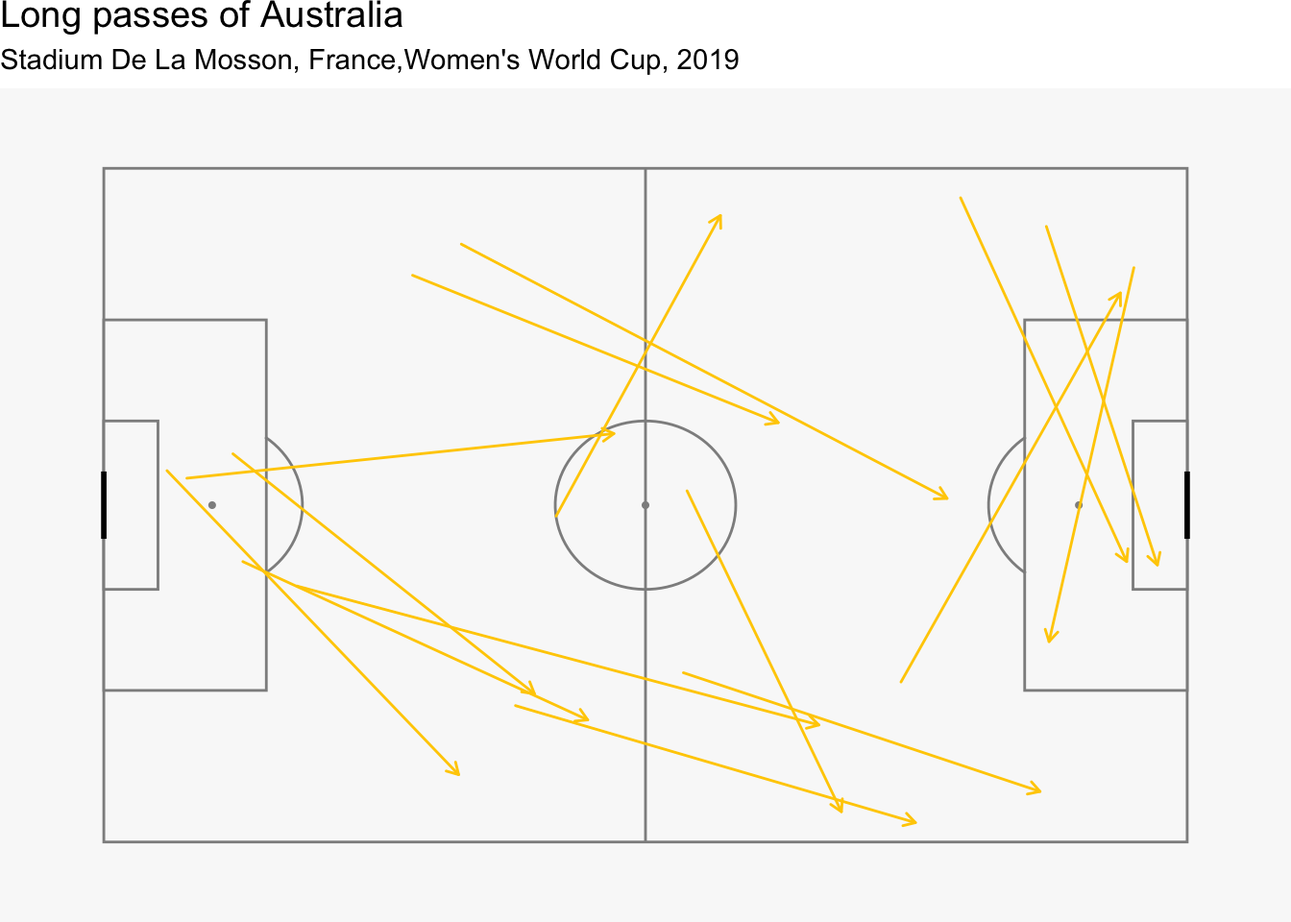
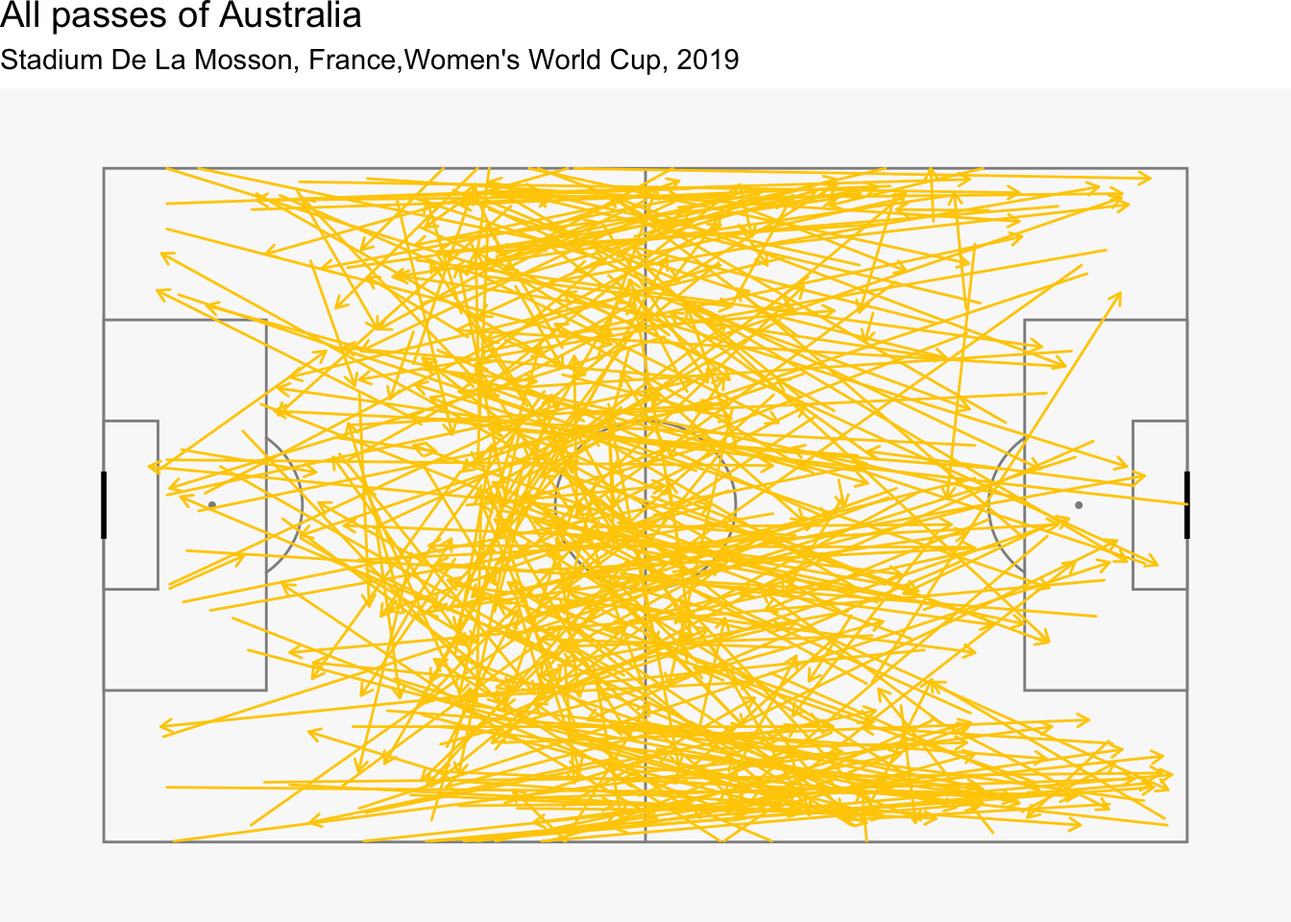
Null plot for Australia passes added

Changed region(s): [[0.0938, 0.1562, 0.9062, 0.9375], [0.0, 0.0, 0.3125, 0.0312], [0.125, 0.7812, 0.1562, 0.8125]]

diff --git a/Q4.html b/Q4.html
@@ -112,7 +112,8 @@ pre > code.sourceCode > span > a:first-child::before { text-decoration: underlin
 <span id="cb1-3"><a href="#cb1-3" aria-hidden="true" tabindex="-1"></a><span class="fu">library</span>(rvest)</span>
 <span id="cb1-4"><a href="#cb1-4" aria-hidden="true" tabindex="-1"></a><span class="fu">library</span>(StatsBombR)</span>
 <span id="cb1-5"><a href="#cb1-5" aria-hidden="true" tabindex="-1"></a><span class="fu">library</span>(SBpitch)</span>
-<span id="cb1-6"><a href="#cb1-6" aria-hidden="true" tabindex="-1"></a><span class="fu">library</span>(ggplot2)</span></code><button title="Copy to Clipboard" class="code-copy-button"><i class="bi"></i></button></pre></div>
+<span id="cb1-6"><a href="#cb1-6" aria-hidden="true" tabindex="-1"></a><span class="fu">library</span>(ggplot2)</span>
+<span id="cb1-7"><a href="#cb1-7" aria-hidden="true" tabindex="-1"></a><span class="fu">library</span>(nullabor)</span></code><button title="Copy to Clipboard" class="code-copy-button"><i class="bi"></i></button></pre></div>
 </div>
 <p>A really nice introduction to working with the data is available <a href="https://statsbomb.com/wp-content/uploads/2022/08/Working-with-R.pdf">here</a>.</p>
 <ol type="a">
@@ -236,14 +237,111 @@ pre > code.sourceCode > span > a:first-child::before { text-decoration: underlin
 <li>On the other hand, <strong>Brazil were observed to overload the right flank but not use the left flank as much</strong>.</li>
 <li>Australia were <strong>also observed to play centrally with more passes in the middle of the field as compared to Brazil</strong>.</li>
 </ol>
+<p>Let us now create null plots of the total passes by both teams to check for the presence of any key differences in the ways the two teams passed through the matches.</p>
+</section>
+<section id="null-plots-for-total-passes-of-australia" class="level2">
+<h2 class="anchored" data-anchor-id="null-plots-for-total-passes-of-australia">Null plots for total passes of Australia</h2>
+<div class="cell">
+<div class="sourceCode cell-code" id="cb6"><pre class="sourceCode r code-with-copy"><code class="sourceCode r"><span id="cb6-1"><a href="#cb6-1" aria-hidden="true" tabindex="-1"></a><span class="fu">set.seed</span>(<span class="dv">201344</span>)</span>
+<span id="cb6-2"><a href="#cb6-2" aria-hidden="true" tabindex="-1"></a><span class="co"># ggplot(lineup(null_permute("species"), penguins_subset, n=20),</span></span>
+<span id="cb6-3"><a href="#cb6-3" aria-hidden="true" tabindex="-1"></a><span class="co">#        aes(x=bm, y=bl, colour=species)) +</span></span>
+<span id="cb6-4"><a href="#cb6-4" aria-hidden="true" tabindex="-1"></a><span class="co">#   geom_point(alpha=0.7) +</span></span>
+<span id="cb6-5"><a href="#cb6-5" aria-hidden="true" tabindex="-1"></a><span class="co">#   facet_wrap(~.sample, ncol=5) +</span></span>
+<span id="cb6-6"><a href="#cb6-6" aria-hidden="true" tabindex="-1"></a><span class="co">#   colorspace::scale_color_discrete_divergingx(palette="Temps") +</span></span>
+<span id="cb6-7"><a href="#cb6-7" aria-hidden="true" tabindex="-1"></a><span class="co">#   theme_bw() +</span></span>
+<span id="cb6-8"><a href="#cb6-8" aria-hidden="true" tabindex="-1"></a><span class="co">#   theme(</span></span>
+<span id="cb6-9"><a href="#cb6-9" aria-hidden="true" tabindex="-1"></a><span class="co">#     legend.position="none",</span></span>
+<span id="cb6-10"><a href="#cb6-10" aria-hidden="true" tabindex="-1"></a><span class="co">#     axis.title = element_blank(),</span></span>
+<span id="cb6-11"><a href="#cb6-11" aria-hidden="true" tabindex="-1"></a><span class="co">#     axis.text = element_blank()</span></span>
+<span id="cb6-12"><a href="#cb6-12" aria-hidden="true" tabindex="-1"></a><span class="co">#   )</span></span>
+<span id="cb6-13"><a href="#cb6-13" aria-hidden="true" tabindex="-1"></a><span class="co"># </span></span>
+<span id="cb6-14"><a href="#cb6-14" aria-hidden="true" tabindex="-1"></a><span class="co"># </span></span>
+<span id="cb6-15"><a href="#cb6-15" aria-hidden="true" tabindex="-1"></a></span>
+<span id="cb6-16"><a href="#cb6-16" aria-hidden="true" tabindex="-1"></a>passes_aus <span class="ot">=</span> aus_brazil <span class="sc">%&gt;%</span></span>
+<span id="cb6-17"><a href="#cb6-17" aria-hidden="true" tabindex="-1"></a><span class="fu">filter</span>(type.name<span class="sc">==</span><span class="st">"Pass"</span> <span class="sc">&amp;</span> <span class="fu">is.na</span>(pass.outcome.name) <span class="sc">&amp;</span> team.name <span class="sc">==</span> <span class="st">"Australia Women's"</span>) </span>
+<span id="cb6-18"><a href="#cb6-18" aria-hidden="true" tabindex="-1"></a></span>
+<span id="cb6-19"><a href="#cb6-19" aria-hidden="true" tabindex="-1"></a></span>
+<span id="cb6-20"><a href="#cb6-20" aria-hidden="true" tabindex="-1"></a></span>
+<span id="cb6-21"><a href="#cb6-21" aria-hidden="true" tabindex="-1"></a><span class="fu">create_Pitch</span>() <span class="sc">+</span></span>
+<span id="cb6-22"><a href="#cb6-22" aria-hidden="true" tabindex="-1"></a>    <span class="fu">geom_segment</span>(<span class="at">data =</span> <span class="fu">lineup</span>(<span class="fu">null_permute</span>(<span class="st">"location.x"</span>),passes_aus,<span class="at">n=</span><span class="dv">1</span>),</span>
+<span id="cb6-23"><a href="#cb6-23" aria-hidden="true" tabindex="-1"></a>    <span class="fu">aes</span>(</span>
+<span id="cb6-24"><a href="#cb6-24" aria-hidden="true" tabindex="-1"></a>      <span class="at">x =</span> location.x,</span>
+<span id="cb6-25"><a href="#cb6-25" aria-hidden="true" tabindex="-1"></a>      <span class="at">y =</span> location.y,</span>
+<span id="cb6-26"><a href="#cb6-26" aria-hidden="true" tabindex="-1"></a>      <span class="at">xend =</span> pass.end_location.x,</span>
+<span id="cb6-27"><a href="#cb6-27" aria-hidden="true" tabindex="-1"></a>      <span class="at">yend =</span> pass.end_location.y</span>
+<span id="cb6-28"><a href="#cb6-28" aria-hidden="true" tabindex="-1"></a>    ),<span class="at">lineend =</span> <span class="st">"round"</span>, <span class="at">size =</span> <span class="fl">0.5</span>, <span class="at">colour =</span> <span class="st">"#FFCD00"</span>, <span class="at">arrow =</span></span>
+<span id="cb6-29"><a href="#cb6-29" aria-hidden="true" tabindex="-1"></a><span class="fu">arrow</span>(<span class="at">length =</span> <span class="fu">unit</span>(<span class="fl">0.07</span>, <span class="st">"inches"</span>), <span class="at">ends =</span> <span class="st">"last"</span>, <span class="at">type =</span> <span class="st">"open"</span>)) <span class="sc">+</span> <span class="fu">labs</span>(<span class="at">title =</span> <span class="st">"All passes of Australia"</span>,</span>
+<span id="cb6-30"><a href="#cb6-30" aria-hidden="true" tabindex="-1"></a>                                                                           <span class="at">subtitle =</span> <span class="st">"Stadium De La Mosson, France,Women's World Cup, 2019"</span>)</span></code><button title="Copy to Clipboard" class="code-copy-button"><i class="bi"></i></button></pre></div>
+<div class="cell-output-display">
+<p><img src="Q4_files/figure-html/unnamed-chunk-7-1.png" class="img-fluid" width="672"></p>
+</div>
+<div class="sourceCode cell-code" id="cb7"><pre class="sourceCode r code-with-copy"><code class="sourceCode r"><span id="cb7-1"><a href="#cb7-1" aria-hidden="true" tabindex="-1"></a><span class="fu">create_Pitch</span>() <span class="sc">+</span></span>
+<span id="cb7-2"><a href="#cb7-2" aria-hidden="true" tabindex="-1"></a>    <span class="fu">geom_segment</span>(<span class="at">data =</span> <span class="fu">lineup</span>(<span class="fu">null_permute</span>(<span class="st">"location.x"</span>),passes_aus,<span class="at">n=</span><span class="dv">5</span>,<span class="at">pos =</span> <span class="dv">2</span>),</span>
+<span id="cb7-3"><a href="#cb7-3" aria-hidden="true" tabindex="-1"></a>    <span class="fu">aes</span>(</span>
+<span id="cb7-4"><a href="#cb7-4" aria-hidden="true" tabindex="-1"></a>      <span class="at">x =</span> location.x,</span>
+<span id="cb7-5"><a href="#cb7-5" aria-hidden="true" tabindex="-1"></a>      <span class="at">y =</span> location.y,</span>
+<span id="cb7-6"><a href="#cb7-6" aria-hidden="true" tabindex="-1"></a>      <span class="at">xend =</span> pass.end_location.x,</span>
+<span id="cb7-7"><a href="#cb7-7" aria-hidden="true" tabindex="-1"></a>      <span class="at">yend =</span> pass.end_location.y</span>
+<span id="cb7-8"><a href="#cb7-8" aria-hidden="true" tabindex="-1"></a>    ),<span class="at">lineend =</span> <span class="st">"round"</span>, <span class="at">size =</span> <span class="fl">0.5</span>, <span class="at">colour =</span> <span class="st">"#FFCD00"</span>, <span class="at">arrow =</span></span>
+<span id="cb7-9"><a href="#cb7-9" aria-hidden="true" tabindex="-1"></a><span class="fu">arrow</span>(<span class="at">length =</span> <span class="fu">unit</span>(<span class="fl">0.07</span>, <span class="st">"inches"</span>), <span class="at">ends =</span> <span class="st">"last"</span>, <span class="at">type =</span> <span class="st">"open"</span>)) <span class="sc">+</span> <span class="fu">labs</span>(<span class="at">title =</span> <span class="st">"All passes of Australia"</span>,</span>
+<span id="cb7-10"><a href="#cb7-10" aria-hidden="true" tabindex="-1"></a>                                                                           <span class="at">subtitle =</span> <span class="st">"Stadium De La Mosson, France,Women's World Cup, 2019"</span>)</span></code><button title="Copy to Clipboard" class="code-copy-button"><i class="bi"></i></button></pre></div>
+<div class="cell-output-display">
+<p><img src="Q4_files/figure-html/unnamed-chunk-7-2.png" class="img-fluid" width="672"></p>
+</div>
+</div>
+<div class="cell">
+<div class="sourceCode cell-code" id="cb8"><pre class="sourceCode r code-with-copy"><code class="sourceCode r"><span id="cb8-1"><a href="#cb8-1" aria-hidden="true" tabindex="-1"></a><span class="co"># Example list of data frames (you should replace these with your actual data)</span></span>
+<span id="cb8-2"><a href="#cb8-2" aria-hidden="true" tabindex="-1"></a>pitch_data_list <span class="ot">&lt;-</span> <span class="fu">list</span>(</span>
+<span id="cb8-3"><a href="#cb8-3" aria-hidden="true" tabindex="-1"></a>  <span class="at">pitch1_data =</span> <span class="fu">data.frame</span>(<span class="at">x =</span> <span class="fu">sample</span>(passes_aus<span class="sc">$</span>location.x), <span class="at">y =</span> passes_aus<span class="sc">$</span>location.y,<span class="at">xend =</span> passes_aus<span class="sc">$</span>pass.end_location.x,<span class="at">yend =</span> passes_aus<span class="sc">$</span>pass.end_location.y),</span>
+<span id="cb8-4"><a href="#cb8-4" aria-hidden="true" tabindex="-1"></a>  <span class="at">pitch2_data =</span> <span class="fu">data.frame</span>(<span class="at">x =</span> passes_aus<span class="sc">$</span>location.x, <span class="at">y =</span> passes_aus<span class="sc">$</span>location.y,<span class="at">xend =</span> passes_aus<span class="sc">$</span>pass.end_location.x,<span class="at">yend =</span> passes_aus<span class="sc">$</span>pass.end_location.y),</span>
+<span id="cb8-5"><a href="#cb8-5" aria-hidden="true" tabindex="-1"></a>  <span class="at">pitch3_data =</span> <span class="fu">data.frame</span>(<span class="at">x =</span> <span class="fu">sample</span>(passes_aus<span class="sc">$</span>location.x),<span class="at">y =</span> passes_aus<span class="sc">$</span>location.y,<span class="at">xend =</span> passes_aus<span class="sc">$</span>pass.end_location.x,<span class="at">yend =</span> passes_aus<span class="sc">$</span>pass.end_location.y),</span>
+<span id="cb8-6"><a href="#cb8-6" aria-hidden="true" tabindex="-1"></a>  <span class="at">pitch4_data =</span> <span class="fu">data.frame</span>(<span class="at">x =</span> <span class="fu">sample</span>(passes_aus<span class="sc">$</span>location.x),<span class="at">y =</span> passes_aus<span class="sc">$</span>location.y,<span class="at">xend =</span> passes_aus<span class="sc">$</span>pass.end_location.x,<span class="at">yend =</span> passes_aus<span class="sc">$</span>pass.end_location.y),</span>
+<span id="cb8-7"><a href="#cb8-7" aria-hidden="true" tabindex="-1"></a>  <span class="at">pitch5_data =</span> <span class="fu">data.frame</span>(<span class="at">x =</span> <span class="fu">sample</span>(passes_aus<span class="sc">$</span>location.x),<span class="at">y =</span> passes_aus<span class="sc">$</span>location.y,<span class="at">xend =</span> passes_aus<span class="sc">$</span>pass.end_location.x,<span class="at">yend =</span> passes_aus<span class="sc">$</span>pass.end_location.y)</span>
+<span id="cb8-8"><a href="#cb8-8" aria-hidden="true" tabindex="-1"></a>                           </span>
+<span id="cb8-9"><a href="#cb8-9" aria-hidden="true" tabindex="-1"></a>)</span>
+<span id="cb8-10"><a href="#cb8-10" aria-hidden="true" tabindex="-1"></a></span>
+<span id="cb8-11"><a href="#cb8-11" aria-hidden="true" tabindex="-1"></a><span class="co"># Create separate null plots for each pitch</span></span>
+<span id="cb8-12"><a href="#cb8-12" aria-hidden="true" tabindex="-1"></a>null_plots <span class="ot">&lt;-</span> <span class="fu">lapply</span>(pitch_data_list, <span class="cf">function</span>(pitch_data) {</span>
+<span id="cb8-13"><a href="#cb8-13" aria-hidden="true" tabindex="-1"></a>  <span class="fu">create_Pitch</span>() <span class="sc">+</span></span>
+<span id="cb8-14"><a href="#cb8-14" aria-hidden="true" tabindex="-1"></a>    <span class="fu">geom_segment</span>(<span class="at">data =</span> pitch_data,</span>
+<span id="cb8-15"><a href="#cb8-15" aria-hidden="true" tabindex="-1"></a>    <span class="fu">aes</span>(</span>
+<span id="cb8-16"><a href="#cb8-16" aria-hidden="true" tabindex="-1"></a>      <span class="at">x =</span> x,</span>
+<span id="cb8-17"><a href="#cb8-17" aria-hidden="true" tabindex="-1"></a>      <span class="at">y =</span> y,</span>
+<span id="cb8-18"><a href="#cb8-18" aria-hidden="true" tabindex="-1"></a>      <span class="at">xend =</span> xend,</span>
+<span id="cb8-19"><a href="#cb8-19" aria-hidden="true" tabindex="-1"></a>      <span class="at">yend =</span> yend</span>
+<span id="cb8-20"><a href="#cb8-20" aria-hidden="true" tabindex="-1"></a>    ),<span class="at">lineend =</span> <span class="st">"round"</span>, <span class="at">size =</span> <span class="fl">0.5</span>, <span class="at">colour =</span> <span class="st">"#FFCD00"</span>, <span class="at">arrow =</span></span>
+<span id="cb8-21"><a href="#cb8-21" aria-hidden="true" tabindex="-1"></a><span class="fu">arrow</span>(<span class="at">length =</span> <span class="fu">unit</span>(<span class="fl">0.07</span>, <span class="st">"inches"</span>), <span class="at">ends =</span> <span class="st">"last"</span>, <span class="at">type =</span> <span class="st">"open"</span>)) <span class="sc">+</span> <span class="fu">labs</span>(<span class="at">title =</span> <span class="st">"All passes of Australia"</span>,</span>
+<span id="cb8-22"><a href="#cb8-22" aria-hidden="true" tabindex="-1"></a>                                                                           <span class="at">subtitle =</span> <span class="st">"Stadium De La Mosson, France,Women's World Cup, 2019"</span>)</span>
+<span id="cb8-23"><a href="#cb8-23" aria-hidden="true" tabindex="-1"></a>})</span>
+<span id="cb8-24"><a href="#cb8-24" aria-hidden="true" tabindex="-1"></a></span>
+<span id="cb8-25"><a href="#cb8-25" aria-hidden="true" tabindex="-1"></a><span class="co"># Plot each null plot separately</span></span>
+<span id="cb8-26"><a href="#cb8-26" aria-hidden="true" tabindex="-1"></a><span class="cf">for</span> (i <span class="cf">in</span> <span class="dv">1</span><span class="sc">:</span><span class="fu">length</span>(null_plots)) {</span>
+<span id="cb8-27"><a href="#cb8-27" aria-hidden="true" tabindex="-1"></a>  <span class="fu">print</span>(null_plots[[i]])</span>
+<span id="cb8-28"><a href="#cb8-28" aria-hidden="true" tabindex="-1"></a>}</span></code><button title="Copy to Clipboard" class="code-copy-button"><i class="bi"></i></button></pre></div>
+<div class="cell-output-display">
+<p><img src="Q4_files/figure-html/unnamed-chunk-8-1.png" class="img-fluid" width="672"></p>
+</div>
+<div class="cell-output-display">
+<p><img src="Q4_files/figure-html/unnamed-chunk-8-2.png" class="img-fluid" width="672"></p>
+</div>
+<div class="cell-output-display">
+<p><img src="Q4_files/figure-html/unnamed-chunk-8-3.png" class="img-fluid" width="672"></p>
+</div>
+<div class="cell-output-display">
+<p><img src="Q4_files/figure-html/unnamed-chunk-8-4.png" class="img-fluid" width="672"></p>
+</div>
+<div class="cell-output-display">
+<p><img src="Q4_files/figure-html/unnamed-chunk-8-5.png" class="img-fluid" width="672"></p>
+</div>
+</div>
 <ol start="4" type="a">
 <li>The type of passes can also be characteristic of a team’s play. Explore this with the variable <code>pass.length</code>, using a visual inference analysis.</li>
 </ol>
 <p>Answer D</p>
 <div class="cell">
-<div class="sourceCode cell-code" id="cb6"><pre class="sourceCode r code-with-copy"><code class="sourceCode r"><span id="cb6-1"><a href="#cb6-1" aria-hidden="true" tabindex="-1"></a>pl5 <span class="ot">&lt;-</span> <span class="fu">ggplot</span>(<span class="at">data =</span> aus_brazil <span class="sc">%&gt;%</span> <span class="fu">mutate</span>(<span class="at">team_name =</span> <span class="fu">case_match</span>(team.name,<span class="st">"Australia Women's"</span><span class="sc">~</span><span class="st">"Australia (Matildas)"</span>,</span>
-<span id="cb6-2"><a href="#cb6-2" aria-hidden="true" tabindex="-1"></a>                                                                                          <span class="st">"Brazil Women's"</span><span class="sc">~</span><span class="st">"Brazil (Seleção)"</span>)),<span class="fu">aes</span>(<span class="at">x =</span> pass.length,<span class="at">fill =</span> team_name)) <span class="sc">+</span> <span class="fu">theme_classic</span>() <span class="sc">+</span> <span class="fu">geom_density</span>(<span class="at">alpha=</span><span class="fl">0.4</span>) <span class="sc">+</span> <span class="fu">labs</span>(<span class="at">x =</span> <span class="st">"Pass length (m)"</span>,<span class="at">y =</span> <span class="st">"Probability density"</span>,<span class="at">fill =</span> <span class="st">"Team name"</span>) <span class="sc">+</span> <span class="fu">scale_fill_manual</span>(<span class="at">values=</span><span class="fu">c</span>(<span class="st">'#FFCD00'</span>,<span class="st">'Blue'</span>)) </span>
-<span id="cb6-3"><a href="#cb6-3" aria-hidden="true" tabindex="-1"></a>pl5</span></code><button title="Copy to Clipboard" class="code-copy-button"><i class="bi"></i></button></pre></div>
+<div class="sourceCode cell-code" id="cb9"><pre class="sourceCode r code-with-copy"><code class="sourceCode r"><span id="cb9-1"><a href="#cb9-1" aria-hidden="true" tabindex="-1"></a>pl5 <span class="ot">&lt;-</span> <span class="fu">ggplot</span>(<span class="at">data =</span> aus_brazil <span class="sc">%&gt;%</span> <span class="fu">mutate</span>(<span class="at">team_name =</span> <span class="fu">case_match</span>(team.name,<span class="st">"Australia Women's"</span><span class="sc">~</span><span class="st">"Australia (Matildas)"</span>,</span>
+<span id="cb9-2"><a href="#cb9-2" aria-hidden="true" tabindex="-1"></a>                                                                                          <span class="st">"Brazil Women's"</span><span class="sc">~</span><span class="st">"Brazil (Seleção)"</span>)),<span class="fu">aes</span>(<span class="at">x =</span> pass.length,<span class="at">fill =</span> team_name)) <span class="sc">+</span> <span class="fu">theme_classic</span>() <span class="sc">+</span> <span class="fu">geom_density</span>(<span class="at">alpha=</span><span class="fl">0.4</span>) <span class="sc">+</span> <span class="fu">labs</span>(<span class="at">x =</span> <span class="st">"Pass length (m)"</span>,<span class="at">y =</span> <span class="st">"Probability density"</span>,<span class="at">fill =</span> <span class="st">"Team name"</span>) <span class="sc">+</span> <span class="fu">scale_fill_manual</span>(<span class="at">values=</span><span class="fu">c</span>(<span class="st">'#FFCD00'</span>,<span class="st">'Blue'</span>)) </span>
+<span id="cb9-3"><a href="#cb9-3" aria-hidden="true" tabindex="-1"></a>pl5</span></code><button title="Copy to Clipboard" class="code-copy-button"><i class="bi"></i></button></pre></div>
 <div class="cell-output-display">
 <div id="fig-denspasslength" class="quarto-figure quarto-figure-center anchored">
 <figure class="figure">
@@ -255,14 +353,14 @@ pre > code.sourceCode > span > a:first-child::before { text-decoration: underlin
 </div>
 <p>Based on the analysis of <a href="#fig-denspasslength">Figure&nbsp;5</a>, we can observe the pass lengths of both teams are <strong>very similar</strong>. However, these passes could be in different locations on the pitch. Hence, we need to explore this variable further.</p>
 <div class="cell">
-<div class="sourceCode cell-code" id="cb7"><pre class="sourceCode r code-with-copy"><code class="sourceCode r"><span id="cb7-1"><a href="#cb7-1" aria-hidden="true" tabindex="-1"></a>passes_bra <span class="ot">=</span> aus_brazil <span class="sc">%&gt;%</span></span>
-<span id="cb7-2"><a href="#cb7-2" aria-hidden="true" tabindex="-1"></a><span class="fu">filter</span>(type.name<span class="sc">==</span><span class="st">"Pass"</span> <span class="sc">&amp;</span> <span class="fu">is.na</span>(pass.outcome.name) <span class="sc">&amp;</span> team.name <span class="sc">==</span> <span class="st">"Australia Women's"</span> <span class="sc">&amp;</span> pass.length <span class="sc">&gt;</span> <span class="dv">40</span>) </span>
-<span id="cb7-3"><a href="#cb7-3" aria-hidden="true" tabindex="-1"></a></span>
-<span id="cb7-4"><a href="#cb7-4" aria-hidden="true" tabindex="-1"></a><span class="fu">create_Pitch</span>() <span class="sc">+</span></span>
-<span id="cb7-5"><a href="#cb7-5" aria-hidden="true" tabindex="-1"></a><span class="fu">geom_segment</span>(<span class="at">data =</span> passes_bra, <span class="fu">aes</span>(<span class="at">x =</span> location.x, <span class="at">y =</span> location.y,</span>
-<span id="cb7-6"><a href="#cb7-6" aria-hidden="true" tabindex="-1"></a><span class="at">xend =</span> pass.end_location.x, <span class="at">yend =</span> pass.end_location.y), <span class="at">lineend =</span> <span class="st">"round"</span>, <span class="at">size =</span> <span class="fl">0.5</span>, <span class="at">colour =</span> <span class="st">"#FFCD00"</span>, <span class="at">arrow =</span></span>
-<span id="cb7-7"><a href="#cb7-7" aria-hidden="true" tabindex="-1"></a><span class="fu">arrow</span>(<span class="at">length =</span> <span class="fu">unit</span>(<span class="fl">0.07</span>, <span class="st">"inches"</span>), <span class="at">ends =</span> <span class="st">"last"</span>, <span class="at">type =</span> <span class="st">"open"</span>)) <span class="sc">+</span> <span class="fu">labs</span>(<span class="at">title =</span> <span class="st">"Long passes of Australia"</span>,</span>
-<span id="cb7-8"><a href="#cb7-8" aria-hidden="true" tabindex="-1"></a>                                                                           <span class="at">subtitle =</span> <span class="st">"Stadium De La Mosson, France,Women's World Cup, 2019"</span>)</span></code><button title="Copy to Clipboard" class="code-copy-button"><i class="bi"></i></button></pre></div>
+<div class="sourceCode cell-code" id="cb10"><pre class="sourceCode r code-with-copy"><code class="sourceCode r"><span id="cb10-1"><a href="#cb10-1" aria-hidden="true" tabindex="-1"></a>passes_bra <span class="ot">=</span> aus_brazil <span class="sc">%&gt;%</span></span>
+<span id="cb10-2"><a href="#cb10-2" aria-hidden="true" tabindex="-1"></a><span class="fu">filter</span>(type.name<span class="sc">==</span><span class="st">"Pass"</span> <span class="sc">&amp;</span> <span class="fu">is.na</span>(pass.outcome.name) <span class="sc">&amp;</span> team.name <span class="sc">==</span> <span class="st">"Australia Women's"</span> <span class="sc">&amp;</span> pass.length <span class="sc">&gt;</span> <span class="dv">40</span>) </span>
+<span id="cb10-3"><a href="#cb10-3" aria-hidden="true" tabindex="-1"></a></span>
+<span id="cb10-4"><a href="#cb10-4" aria-hidden="true" tabindex="-1"></a><span class="fu">create_Pitch</span>() <span class="sc">+</span></span>
+<span id="cb10-5"><a href="#cb10-5" aria-hidden="true" tabindex="-1"></a><span class="fu">geom_segment</span>(<span class="at">data =</span> passes_bra, <span class="fu">aes</span>(<span class="at">x =</span> location.x, <span class="at">y =</span> location.y,</span>
+<span id="cb10-6"><a href="#cb10-6" aria-hidden="true" tabindex="-1"></a><span class="at">xend =</span> pass.end_location.x, <span class="at">yend =</span> pass.end_location.y), <span class="at">lineend =</span> <span class="st">"round"</span>, <span class="at">size =</span> <span class="fl">0.5</span>, <span class="at">colour =</span> <span class="st">"#FFCD00"</span>, <span class="at">arrow =</span></span>
+<span id="cb10-7"><a href="#cb10-7" aria-hidden="true" tabindex="-1"></a><span class="fu">arrow</span>(<span class="at">length =</span> <span class="fu">unit</span>(<span class="fl">0.07</span>, <span class="st">"inches"</span>), <span class="at">ends =</span> <span class="st">"last"</span>, <span class="at">type =</span> <span class="st">"open"</span>)) <span class="sc">+</span> <span class="fu">labs</span>(<span class="at">title =</span> <span class="st">"Long passes of Australia"</span>,</span>
+<span id="cb10-8"><a href="#cb10-8" aria-hidden="true" tabindex="-1"></a>                                                                           <span class="at">subtitle =</span> <span class="st">"Stadium De La Mosson, France,Women's World Cup, 2019"</span>)</span></code><button title="Copy to Clipboard" class="code-copy-button"><i class="bi"></i></button></pre></div>
 <div class="cell-output-display">
 <div id="fig-longpassauskey" class="quarto-figure quarto-figure-center anchored">
 <figure class="figure">
@@ -273,14 +371,14 @@ pre > code.sourceCode > span > a:first-child::before { text-decoration: underlin
 </div>
 </div>
 <div class="cell">
-<div class="sourceCode cell-code" id="cb8"><pre class="sourceCode r code-with-copy"><code class="sourceCode r"><span id="cb8-1"><a href="#cb8-1" aria-hidden="true" tabindex="-1"></a>passes_bra <span class="ot">=</span> aus_brazil <span class="sc">%&gt;%</span></span>
-<span id="cb8-2"><a href="#cb8-2" aria-hidden="true" tabindex="-1"></a><span class="fu">filter</span>(type.name<span class="sc">==</span><span class="st">"Pass"</span> <span class="sc">&amp;</span> <span class="fu">is.na</span>(pass.outcome.name) <span class="sc">&amp;</span> team.name <span class="sc">==</span> <span class="st">"Brazil Women's"</span> <span class="sc">&amp;</span> pass.length <span class="sc">&gt;</span> <span class="dv">40</span>) </span>
-<span id="cb8-3"><a href="#cb8-3" aria-hidden="true" tabindex="-1"></a></span>
-<span id="cb8-4"><a href="#cb8-4" aria-hidden="true" tabindex="-1"></a><span class="fu">create_Pitch</span>() <span class="sc">+</span></span>
-<span id="cb8-5"><a href="#cb8-5" aria-hidden="true" tabindex="-1"></a><span class="fu">geom_segment</span>(<span class="at">data =</span> passes_bra, <span class="fu">aes</span>(<span class="at">x =</span> location.x, <span class="at">y =</span> location.y,</span>
-<span id="cb8-6"><a href="#cb8-6" aria-hidden="true" tabindex="-1"></a><span class="at">xend =</span> pass.end_location.x, <span class="at">yend =</span> pass.end_location.y), <span class="at">lineend =</span> <span class="st">"round"</span>, <span class="at">size =</span> <span class="fl">0.5</span>, <span class="at">colour =</span> <span class="st">"blue"</span>, <span class="at">arrow =</span></span>
-<span id="cb8-7"><a href="#cb8-7" aria-hidden="true" tabindex="-1"></a><span class="fu">arrow</span>(<span class="at">length =</span> <span class="fu">unit</span>(<span class="fl">0.07</span>, <span class="st">"inches"</span>), <span class="at">ends =</span> <span class="st">"last"</span>, <span class="at">type =</span> <span class="st">"open"</span>)) <span class="sc">+</span> <span class="fu">labs</span>(<span class="at">title =</span> <span class="st">"Long passes of Brazil"</span>,</span>
-<span id="cb8-8"><a href="#cb8-8" aria-hidden="true" tabindex="-1"></a>                                                                           <span class="at">subtitle =</span> <span class="st">"Stadium De La Mosson, France,Women's World Cup, 2019"</span>)</span></code><button title="Copy to Clipboard" class="code-copy-button"><i class="bi"></i></button></pre></div>
+<div class="sourceCode cell-code" id="cb11"><pre class="sourceCode r code-with-copy"><code class="sourceCode r"><span id="cb11-1"><a href="#cb11-1" aria-hidden="true" tabindex="-1"></a>passes_bra <span class="ot">=</span> aus_brazil <span class="sc">%&gt;%</span></span>
+<span id="cb11-2"><a href="#cb11-2" aria-hidden="true" tabindex="-1"></a><span class="fu">filter</span>(type.name<span class="sc">==</span><span class="st">"Pass"</span> <span class="sc">&amp;</span> <span class="fu">is.na</span>(pass.outcome.name) <span class="sc">&amp;</span> team.name <span class="sc">==</span> <span class="st">"Brazil Women's"</span> <span class="sc">&amp;</span> pass.length <span class="sc">&gt;</span> <span class="dv">40</span>) </span>
+<span id="cb11-3"><a href="#cb11-3" aria-hidden="true" tabindex="-1"></a></span>
+<span id="cb11-4"><a href="#cb11-4" aria-hidden="true" tabindex="-1"></a><span class="fu">create_Pitch</span>() <span class="sc">+</span></span>
+<span id="cb11-5"><a href="#cb11-5" aria-hidden="true" tabindex="-1"></a><span class="fu">geom_segment</span>(<span class="at">data =</span> passes_bra, <span class="fu">aes</span>(<span class="at">x =</span> location.x, <span class="at">y =</span> location.y,</span>
+<span id="cb11-6"><a href="#cb11-6" aria-hidden="true" tabindex="-1"></a><span class="at">xend =</span> pass.end_location.x, <span class="at">yend =</span> pass.end_location.y), <span class="at">lineend =</span> <span class="st">"round"</span>, <span class="at">size =</span> <span class="fl">0.5</span>, <span class="at">colour =</span> <span class="st">"blue"</span>, <span class="at">arrow =</span></span>
+<span id="cb11-7"><a href="#cb11-7" aria-hidden="true" tabindex="-1"></a><span class="fu">arrow</span>(<span class="at">length =</span> <span class="fu">unit</span>(<span class="fl">0.07</span>, <span class="st">"inches"</span>), <span class="at">ends =</span> <span class="st">"last"</span>, <span class="at">type =</span> <span class="st">"open"</span>)) <span class="sc">+</span> <span class="fu">labs</span>(<span class="at">title =</span> <span class="st">"Long passes of Brazil"</span>,</span>
+<span id="cb11-8"><a href="#cb11-8" aria-hidden="true" tabindex="-1"></a>                                                                           <span class="at">subtitle =</span> <span class="st">"Stadium De La Mosson, France,Women's World Cup, 2019"</span>)</span></code><button title="Copy to Clipboard" class="code-copy-button"><i class="bi"></i></button></pre></div>
 <div class="cell-output-display">
 <div id="fig-longpassbrakey" class="quarto-figure quarto-figure-center anchored">
 <figure class="figure">
@@ -296,17 +394,17 @@ pre > code.sourceCode > span > a:first-child::before { text-decoration: underlin
 <li>On the other hand, Brazil’s long passes originated from the defense. This suggests that Brazil employed short goal kicks while Australia flung more balls from the goalkeeping position to an attacking position.</li>
 </ol>
 <div class="cell">
-<div class="sourceCode cell-code" id="cb9"><pre class="sourceCode r code-with-copy"><code class="sourceCode r"><span id="cb9-1"><a href="#cb9-1" aria-hidden="true" tabindex="-1"></a>passes_aus <span class="ot">=</span> aus_brazil <span class="sc">%&gt;%</span></span>
-<span id="cb9-2"><a href="#cb9-2" aria-hidden="true" tabindex="-1"></a><span class="fu">filter</span>(type.name<span class="sc">==</span><span class="st">"Pass"</span> <span class="sc">&amp;</span> <span class="fu">is.na</span>(pass.outcome.name) <span class="sc">&amp;</span> team.name <span class="sc">==</span> <span class="st">"Australia Women's"</span>) <span class="sc">%&gt;%</span> <span class="co">#1</span></span>
-<span id="cb9-3"><a href="#cb9-3" aria-hidden="true" tabindex="-1"></a><span class="fu">filter</span>(pass.end_location.x<span class="sc">&gt;=</span><span class="dv">102</span> <span class="sc">&amp;</span> pass.end_location.y<span class="sc">&lt;=</span><span class="dv">62</span> <span class="sc">&amp;</span> <span class="co"># Only key attacking passes</span></span>
-<span id="cb9-4"><a href="#cb9-4" aria-hidden="true" tabindex="-1"></a>pass.end_location.y<span class="sc">&gt;=</span><span class="dv">18</span>)</span>
-<span id="cb9-5"><a href="#cb9-5" aria-hidden="true" tabindex="-1"></a></span>
-<span id="cb9-6"><a href="#cb9-6" aria-hidden="true" tabindex="-1"></a></span>
-<span id="cb9-7"><a href="#cb9-7" aria-hidden="true" tabindex="-1"></a><span class="fu">create_Pitch</span>() <span class="sc">+</span></span>
-<span id="cb9-8"><a href="#cb9-8" aria-hidden="true" tabindex="-1"></a><span class="fu">geom_segment</span>(<span class="at">data =</span> passes_aus, <span class="fu">aes</span>(<span class="at">x =</span> location.x, <span class="at">y =</span> location.y,</span>
-<span id="cb9-9"><a href="#cb9-9" aria-hidden="true" tabindex="-1"></a><span class="at">xend =</span> pass.end_location.x, <span class="at">yend =</span> pass.end_location.y), <span class="at">lineend =</span> <span class="st">"round"</span>, <span class="at">size =</span> <span class="fl">0.5</span>, <span class="at">colour =</span> <span class="st">"#FFCD00"</span>, <span class="at">arrow =</span></span>
-<span id="cb9-10"><a href="#cb9-10" aria-hidden="true" tabindex="-1"></a><span class="fu">arrow</span>(<span class="at">length =</span> <span class="fu">unit</span>(<span class="fl">0.07</span>, <span class="st">"inches"</span>), <span class="at">ends =</span> <span class="st">"last"</span>, <span class="at">type =</span> <span class="st">"open"</span>)) <span class="sc">+</span> <span class="fu">labs</span>(<span class="at">title =</span> <span class="st">"Key attacking passes of Australia"</span>,</span>
-<span id="cb9-11"><a href="#cb9-11" aria-hidden="true" tabindex="-1"></a>                                                                           <span class="at">subtitle =</span> <span class="st">"Stadium De La Mosson, France,Women's World Cup, 2019"</span>)</span></code><button title="Copy to Clipboard" class="code-copy-button"><i class="bi"></i></button></pre></div>
+<div class="sourceCode cell-code" id="cb12"><pre class="sourceCode r code-with-copy"><code class="sourceCode r"><span id="cb12-1"><a href="#cb12-1" aria-hidden="true" tabindex="-1"></a>passes_aus <span class="ot">=</span> aus_brazil <span class="sc">%&gt;%</span></span>
+<span id="cb12-2"><a href="#cb12-2" aria-hidden="true" tabindex="-1"></a><span class="fu">filter</span>(type.name<span class="sc">==</span><span class="st">"Pass"</span> <span class="sc">&amp;</span> <span class="fu">is.na</span>(pass.outcome.name) <span class="sc">&amp;</span> team.name <span class="sc">==</span> <span class="st">"Australia Women's"</span>) <span class="sc">%&gt;%</span> <span class="co">#1</span></span>
+<span id="cb12-3"><a href="#cb12-3" aria-hidden="true" tabindex="-1"></a><span class="fu">filter</span>(pass.end_location.x<span class="sc">&gt;=</span><span class="dv">102</span> <span class="sc">&amp;</span> pass.end_location.y<span class="sc">&lt;=</span><span class="dv">62</span> <span class="sc">&amp;</span> <span class="co"># Only key attacking passes</span></span>
+<span id="cb12-4"><a href="#cb12-4" aria-hidden="true" tabindex="-1"></a>pass.end_location.y<span class="sc">&gt;=</span><span class="dv">18</span>)</span>
+<span id="cb12-5"><a href="#cb12-5" aria-hidden="true" tabindex="-1"></a></span>
+<span id="cb12-6"><a href="#cb12-6" aria-hidden="true" tabindex="-1"></a></span>
+<span id="cb12-7"><a href="#cb12-7" aria-hidden="true" tabindex="-1"></a><span class="fu">create_Pitch</span>() <span class="sc">+</span></span>
+<span id="cb12-8"><a href="#cb12-8" aria-hidden="true" tabindex="-1"></a><span class="fu">geom_segment</span>(<span class="at">data =</span> passes_aus, <span class="fu">aes</span>(<span class="at">x =</span> location.x, <span class="at">y =</span> location.y,</span>
+<span id="cb12-9"><a href="#cb12-9" aria-hidden="true" tabindex="-1"></a><span class="at">xend =</span> pass.end_location.x, <span class="at">yend =</span> pass.end_location.y), <span class="at">lineend =</span> <span class="st">"round"</span>, <span class="at">size =</span> <span class="fl">0.5</span>, <span class="at">colour =</span> <span class="st">"#FFCD00"</span>, <span class="at">arrow =</span></span>
+<span id="cb12-10"><a href="#cb12-10" aria-hidden="true" tabindex="-1"></a><span class="fu">arrow</span>(<span class="at">length =</span> <span class="fu">unit</span>(<span class="fl">0.07</span>, <span class="st">"inches"</span>), <span class="at">ends =</span> <span class="st">"last"</span>, <span class="at">type =</span> <span class="st">"open"</span>)) <span class="sc">+</span> <span class="fu">labs</span>(<span class="at">title =</span> <span class="st">"Key attacking passes of Australia"</span>,</span>
+<span id="cb12-11"><a href="#cb12-11" aria-hidden="true" tabindex="-1"></a>                                                                           <span class="at">subtitle =</span> <span class="st">"Stadium De La Mosson, France,Women's World Cup, 2019"</span>)</span></code><button title="Copy to Clipboard" class="code-copy-button"><i class="bi"></i></button></pre></div>
 <div class="cell-output-display">
 <div id="fig-passauskey" class="quarto-figure quarto-figure-center anchored">
 <figure class="figure">
@@ -317,17 +415,17 @@ pre > code.sourceCode > span > a:first-child::before { text-decoration: underlin
 </div>
 </div>
 <div class="cell">
-<div class="sourceCode cell-code" id="cb10"><pre class="sourceCode r code-with-copy"><code class="sourceCode r"><span id="cb10-1"><a href="#cb10-1" aria-hidden="true" tabindex="-1"></a>passes_bra <span class="ot">=</span> aus_brazil <span class="sc">%&gt;%</span></span>
-<span id="cb10-2"><a href="#cb10-2" aria-hidden="true" tabindex="-1"></a><span class="fu">filter</span>(type.name<span class="sc">==</span><span class="st">"Pass"</span> <span class="sc">&amp;</span> <span class="fu">is.na</span>(pass.outcome.name) <span class="sc">&amp;</span> team.name <span class="sc">==</span> <span class="st">"Brazil Women's"</span>) <span class="sc">%&gt;%</span> <span class="co">#1</span></span>
-<span id="cb10-3"><a href="#cb10-3" aria-hidden="true" tabindex="-1"></a><span class="fu">filter</span>(pass.end_location.x<span class="sc">&gt;=</span><span class="dv">102</span> <span class="sc">&amp;</span> pass.end_location.y<span class="sc">&lt;=</span><span class="dv">62</span> <span class="sc">&amp;</span> <span class="co"># Only key attacking passes</span></span>
-<span id="cb10-4"><a href="#cb10-4" aria-hidden="true" tabindex="-1"></a>pass.end_location.y<span class="sc">&gt;=</span><span class="dv">18</span>)</span>
-<span id="cb10-5"><a href="#cb10-5" aria-hidden="true" tabindex="-1"></a></span>
-<span id="cb10-6"><a href="#cb10-6" aria-hidden="true" tabindex="-1"></a></span>
-<span id="cb10-7"><a href="#cb10-7" aria-hidden="true" tabindex="-1"></a><span class="fu">create_Pitch</span>() <span class="sc">+</span></span>
-<span id="cb10-8"><a href="#cb10-8" aria-hidden="true" tabindex="-1"></a><span class="fu">geom_segment</span>(<span class="at">data =</span> passes_bra, <span class="fu">aes</span>(<span class="at">x =</span> location.x, <span class="at">y =</span> location.y,</span>
-<span id="cb10-9"><a href="#cb10-9" aria-hidden="true" tabindex="-1"></a><span class="at">xend =</span> pass.end_location.x, <span class="at">yend =</span> pass.end_location.y), <span class="at">lineend =</span> <span class="st">"round"</span>, <span class="at">size =</span> <span class="fl">0.5</span>, <span class="at">colour =</span> <span class="st">"blue"</span>, <span class="at">arrow =</span></span>
-<span id="cb10-10"><a href="#cb10-10" aria-hidden="true" tabindex="-1"></a><span class="fu">arrow</span>(<span class="at">length =</span> <span class="fu">unit</span>(<span class="fl">0.07</span>, <span class="st">"inches"</span>), <span class="at">ends =</span> <span class="st">"last"</span>, <span class="at">type =</span> <span class="st">"open"</span>)) <span class="sc">+</span> <span class="fu">labs</span>(<span class="at">title =</span> <span class="st">"Key attacking passes of Brazil"</span>,</span>
-<span id="cb10-11"><a href="#cb10-11" aria-hidden="true" tabindex="-1"></a>                                                                           <span class="at">subtitle =</span> <span class="st">"Stadium De La Mosson, France,Women's World Cup, 2019"</span>)</span></code><button title="Copy to Clipboard" class="code-copy-button"><i class="bi"></i></button></pre></div>
+<div class="sourceCode cell-code" id="cb13"><pre class="sourceCode r code-with-copy"><code class="sourceCode r"><span id="cb13-1"><a href="#cb13-1" aria-hidden="true" tabindex="-1"></a>passes_bra <span class="ot">=</span> aus_brazil <span class="sc">%&gt;%</span></span>
+<span id="cb13-2"><a href="#cb13-2" aria-hidden="true" tabindex="-1"></a><span class="fu">filter</span>(type.name<span class="sc">==</span><span class="st">"Pass"</span> <span class="sc">&amp;</span> <span class="fu">is.na</span>(pass.outcome.name) <span class="sc">&amp;</span> team.name <span class="sc">==</span> <span class="st">"Brazil Women's"</span>) <span class="sc">%&gt;%</span> <span class="co">#1</span></span>
+<span id="cb13-3"><a href="#cb13-3" aria-hidden="true" tabindex="-1"></a><span class="fu">filter</span>(pass.end_location.x<span class="sc">&gt;=</span><span class="dv">102</span> <span class="sc">&amp;</span> pass.end_location.y<span class="sc">&lt;=</span><span class="dv">62</span> <span class="sc">&amp;</span> <span class="co"># Only key attacking passes</span></span>
+<span id="cb13-4"><a href="#cb13-4" aria-hidden="true" tabindex="-1"></a>pass.end_location.y<span class="sc">&gt;=</span><span class="dv">18</span>)</span>
+<span id="cb13-5"><a href="#cb13-5" aria-hidden="true" tabindex="-1"></a></span>
+<span id="cb13-6"><a href="#cb13-6" aria-hidden="true" tabindex="-1"></a></span>
+<span id="cb13-7"><a href="#cb13-7" aria-hidden="true" tabindex="-1"></a><span class="fu">create_Pitch</span>() <span class="sc">+</span></span>
+<span id="cb13-8"><a href="#cb13-8" aria-hidden="true" tabindex="-1"></a><span class="fu">geom_segment</span>(<span class="at">data =</span> passes_bra, <span class="fu">aes</span>(<span class="at">x =</span> location.x, <span class="at">y =</span> location.y,</span>
+<span id="cb13-9"><a href="#cb13-9" aria-hidden="true" tabindex="-1"></a><span class="at">xend =</span> pass.end_location.x, <span class="at">yend =</span> pass.end_location.y), <span class="at">lineend =</span> <span class="st">"round"</span>, <span class="at">size =</span> <span class="fl">0.5</span>, <span class="at">colour =</span> <span class="st">"blue"</span>, <span class="at">arrow =</span></span>
+<span id="cb13-10"><a href="#cb13-10" aria-hidden="true" tabindex="-1"></a><span class="fu">arrow</span>(<span class="at">length =</span> <span class="fu">unit</span>(<span class="fl">0.07</span>, <span class="st">"inches"</span>), <span class="at">ends =</span> <span class="st">"last"</span>, <span class="at">type =</span> <span class="st">"open"</span>)) <span class="sc">+</span> <span class="fu">labs</span>(<span class="at">title =</span> <span class="st">"Key attacking passes of Brazil"</span>,</span>
+<span id="cb13-11"><a href="#cb13-11" aria-hidden="true" tabindex="-1"></a>                                                                           <span class="at">subtitle =</span> <span class="st">"Stadium De La Mosson, France,Women's World Cup, 2019"</span>)</span></code><button title="Copy to Clipboard" class="code-copy-button"><i class="bi"></i></button></pre></div>
 <div class="cell-output-display">
 <div id="fig-passbrakey" class="quarto-figure quarto-figure-center anchored">
 <figure class="figure">
